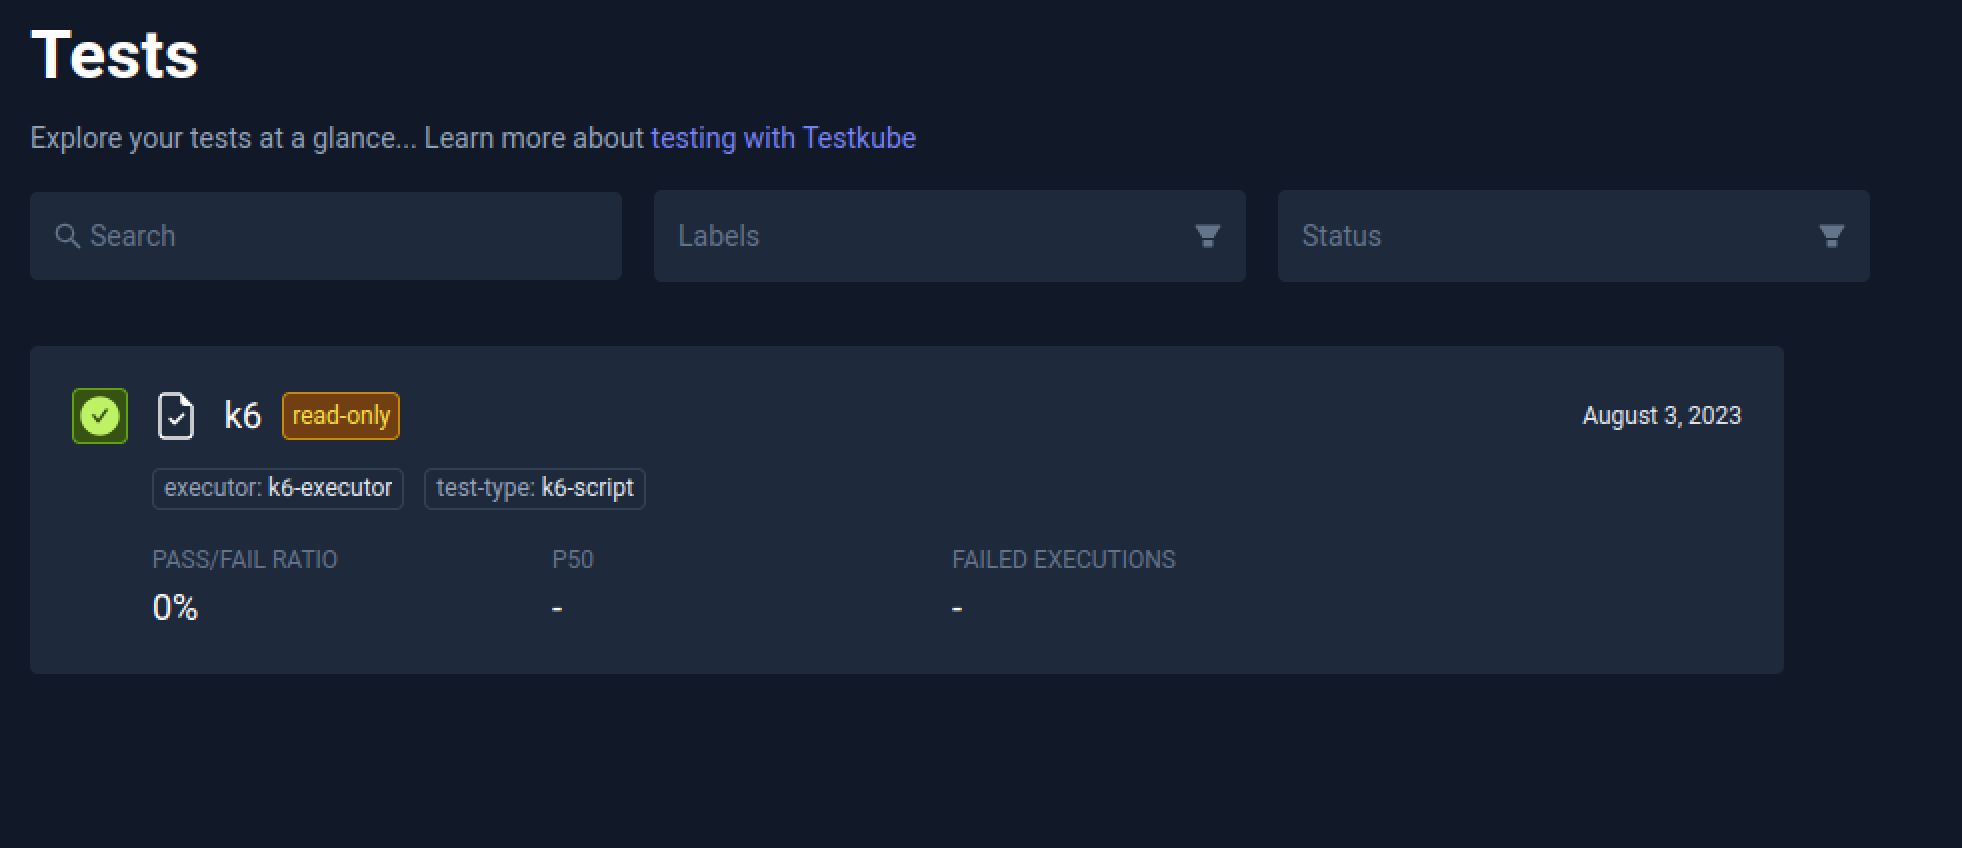
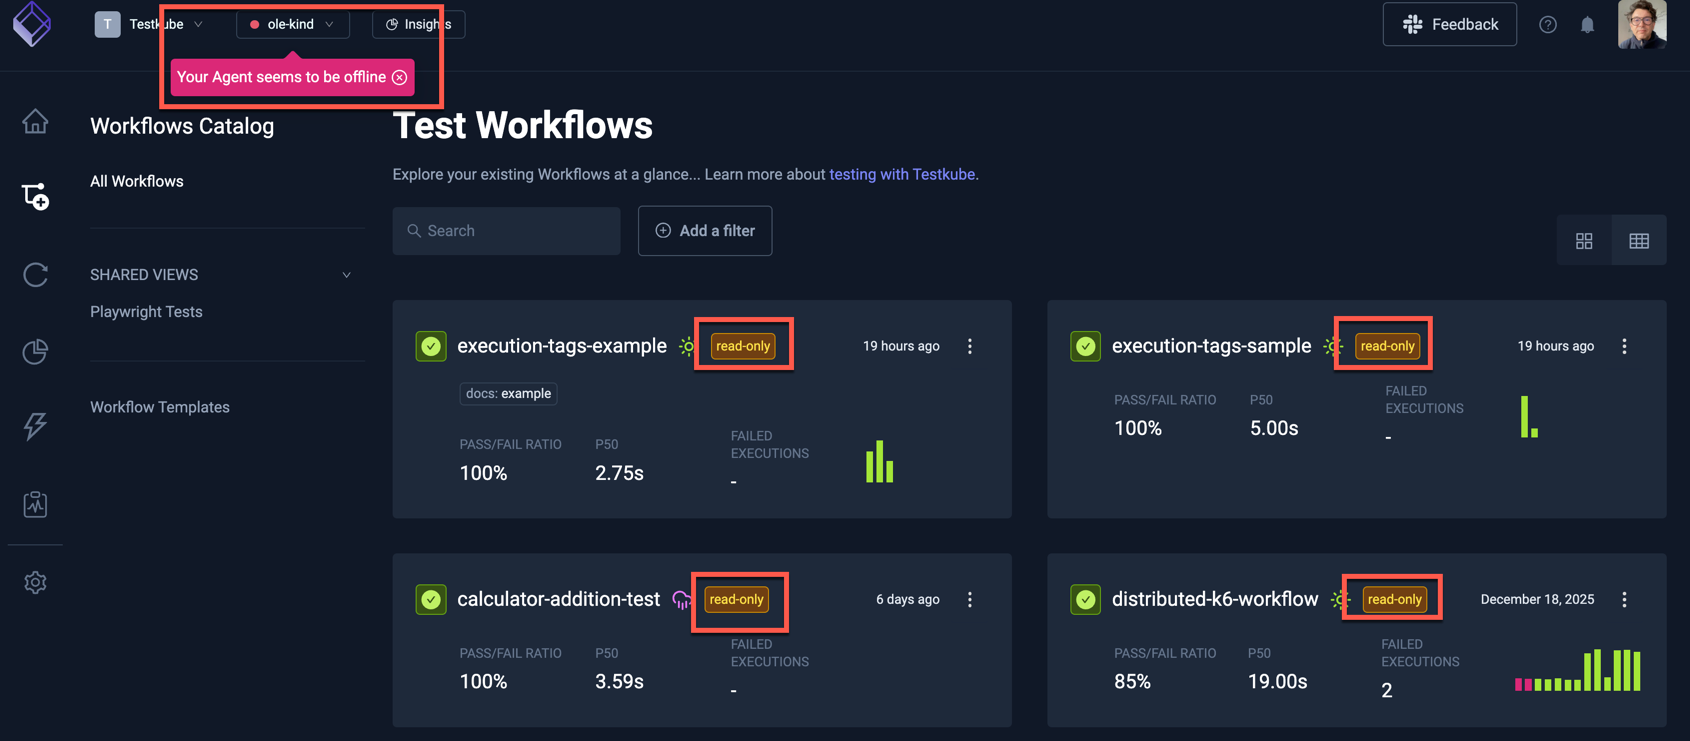
docs: update cached TestWorkflow results documentation with new details and screenshots

diff --git a/docs/articles/cached-results.md b/docs/articles/cached-results.md
@@ -1,15 +1,32 @@
-# Cached Test & Test Suite Results
+# Cached TestWorkflow Results
 
-Testkube cached test results allows you to see and inspect test execution results even when your Testkube agent is offline.
+The Testkube Standalone Agent manages all Testkube Environment Resources (Workflows, WorkflowTemplates, Webhooks and TestTriggers) as
+CRDs in the namespace where it is installed - [Read More](/articles/agents-overview#the-standalone-agent). All corresponding Workflow 
+Execution results are stored in the database either configured for the Testkube Control Plane or for the Agent when running in standalone mode.
 
-## Overview
+When using the Testkube Control Plane and the Standalone Agent in offline, the Testkube Dashboard still allows you to view previous 
+Workflow Execution results, while the Workflow itself is in read-only mode (since the agent is offline, no changes can be made).
 
-![offline-test](../img/offline-list.png)
+## Accessing Cached Results
 
-Testkube uses test execution data allowing you inspect past test executions. This feature also works when your agent is online, but the Testkube agent doesn't have the test definition available in Kubernetes.
+When your agent is offline, Workflows are shown as offline:
 
-Cached test results appear with a read-only tag. These tests cannot be updated. If you want to get rid of old tests, you can go to the Test Settings page and click "Delete Test".
+![Read Only Workflows](../img/offline-list.png)
 
-![offline-test-suite](../img/offline-test-suite.png)
+It is still possible to drill down into the settings and results of each Workflow, but no changes can be made to the Workflow itself.
 
-Similar to tests, Testkube supports also cached results for Test Suites. These can be identified by the read-only tag which suggests that either your agent is not connected, or that a particular test suite definition is no longer available in Kubernetes.
+For example, selecting the distributed-k6-workflow seen above allows you view each execution, with the "Read Only" marker at the top indicating
+that the Workflow is in read-only mode:
+
+![Offline Execution Results](images/readonly-workflow-executions.png)
+
+## Accessing results for deleted Workflows
+
+If your Standalone Agent is _online_ and Control Plane contains Workflow Executions for a TestWorkflow that has been deleted from the Agent 
+namespace, that Workflow will also be shown as offline in the Dashboard, allowing you to view its execution results. 
+
+![Delete Deleted Workflow](images/delete-deleted-workflow.png)
+
+:::note
+You can use the "Delete" command from the popup shown above to delete all Workflow Executions for a deleted TestWorkflow. 
+:::
